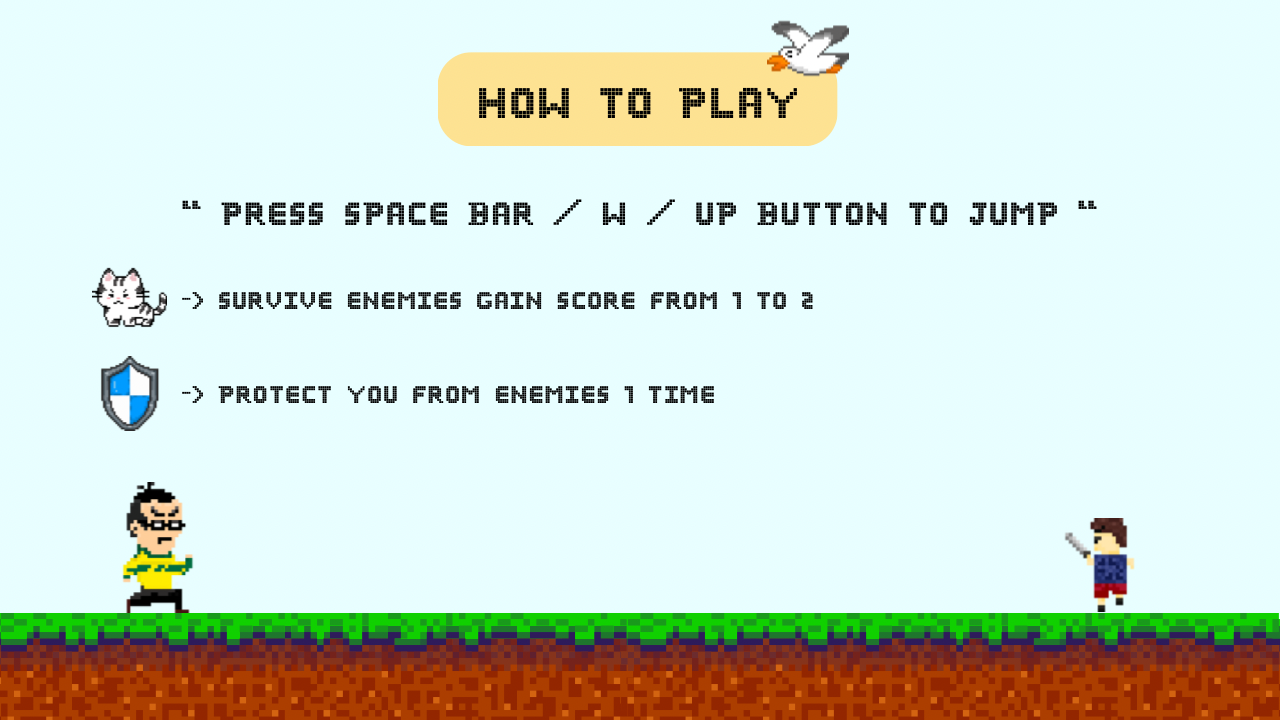
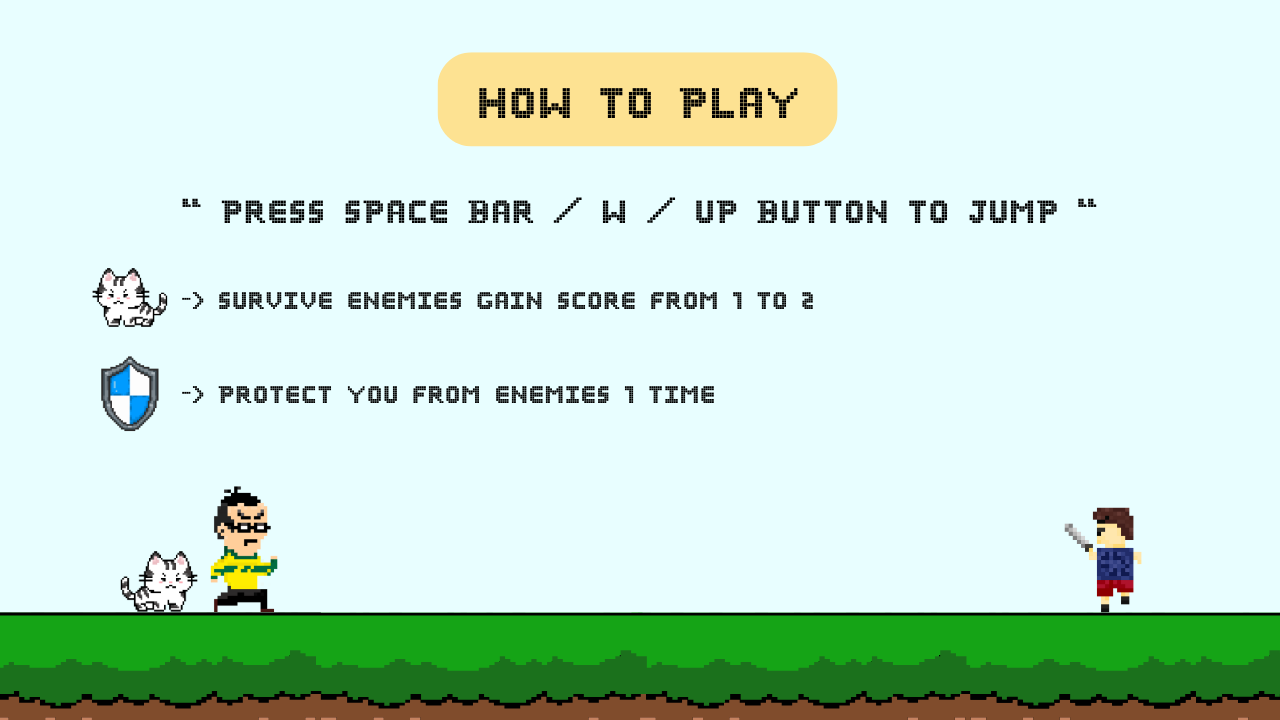
FINAL

diff --git a/GameMenu.java b/GameMenu.java
@@ -28,7 +28,7 @@ public class GameMenu extends JPanel {
             cloud2Label = createImageLabel("src/Elements/cloud2.png", 400, 10, 300, 150);
             cloud3Label = createImageLabel("src/Elements/cloud3.png", 800, 20, 500, 250);
             castlesLabel = createImageLabel("src/Elements/castles.png", -115, 317, 475, 275);
-            floorLabel = createImageLabel("src/Elements/floor.png", -10, 300, 1300, 680);
+            floorLabel = createImageLabel("src/Elements/floor.png", -10, 325, 1300, 680);
             mushroomLabel = createImageLabel("src/Elements/mushroom.png", 1145, 520, 150, 75);
             CATLabel = createImageLabel("src/Elements/catAuan.png", 795, 508, 150, 100);
             starLabel = createImageLabel("src/Elements/star.png", 585, 130, 120, 50);

diff --git a/GameScreen.java b/GameScreen.java
@@ -229,8 +229,6 @@ public class GameScreen extends JPanel implements Runnable, KeyListener {
                 System.out.println("Shield hit!");
                 currentEnemy = null;
                 isEnemyActive = false;
-                score++;
-                scoreLabel.setText("Score: " + score);
                 player.setShield(false);
             }
         }
@@ -304,7 +302,7 @@ public class GameScreen extends JPanel implements Runnable, KeyListener {
     protected void paintComponent(Graphics g) {
         super.paintComponent(g);
 
-        if (floor != null) {g.drawImage(floor, 0, 295, getWidth(), getHeight(), this);}
+        if (floor != null) {g.drawImage(floor, 0, 313, getWidth(), getHeight(), this);}
         bgMoving(g);
 
         player.paint(g);
